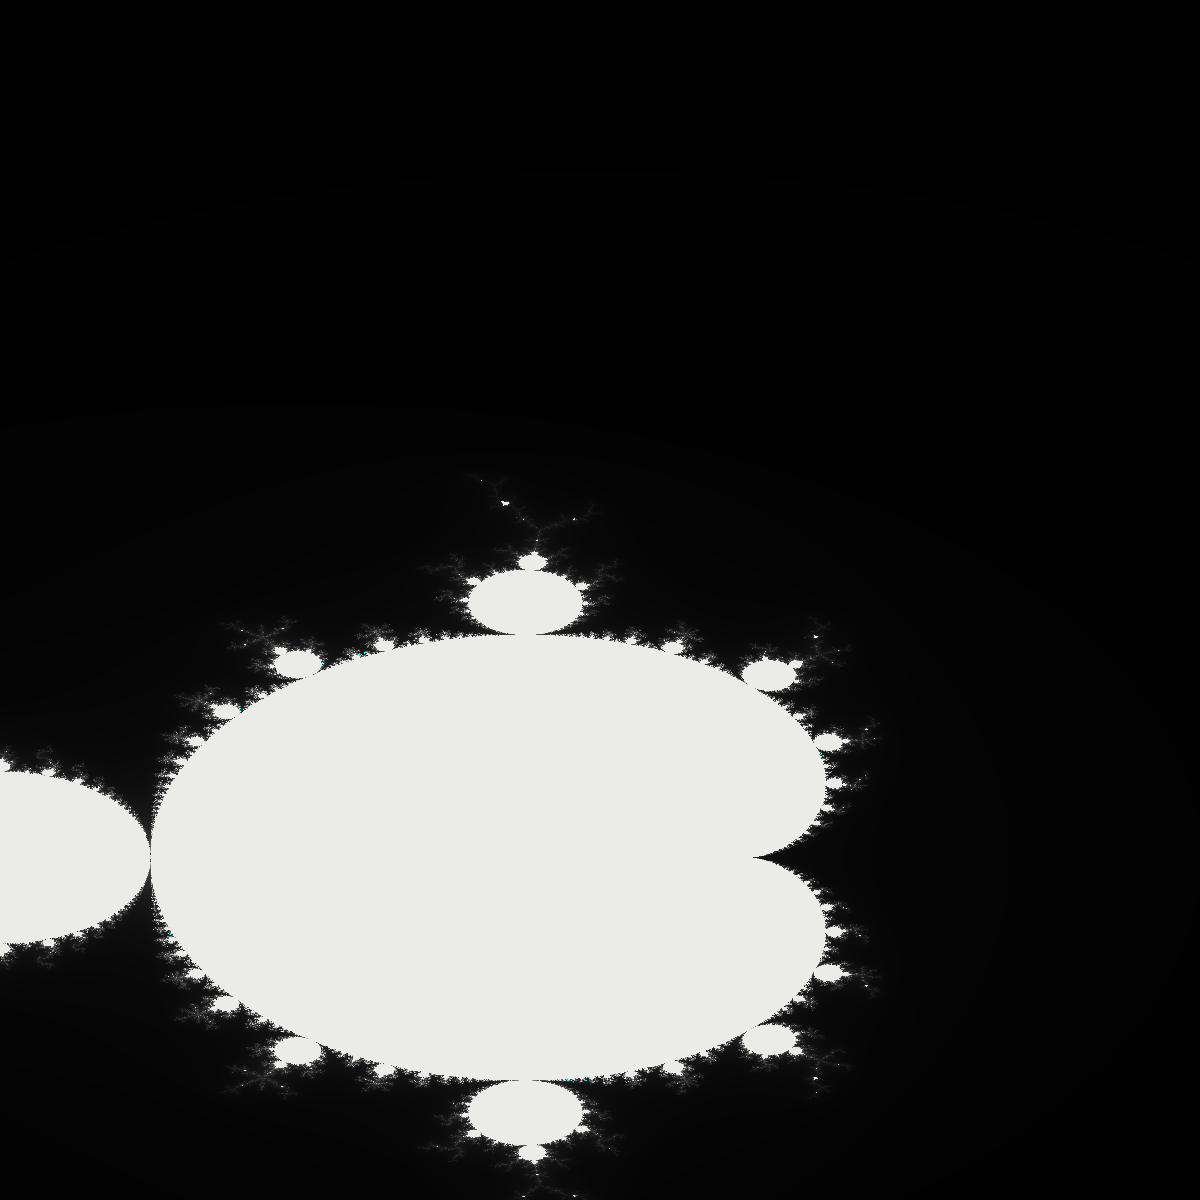
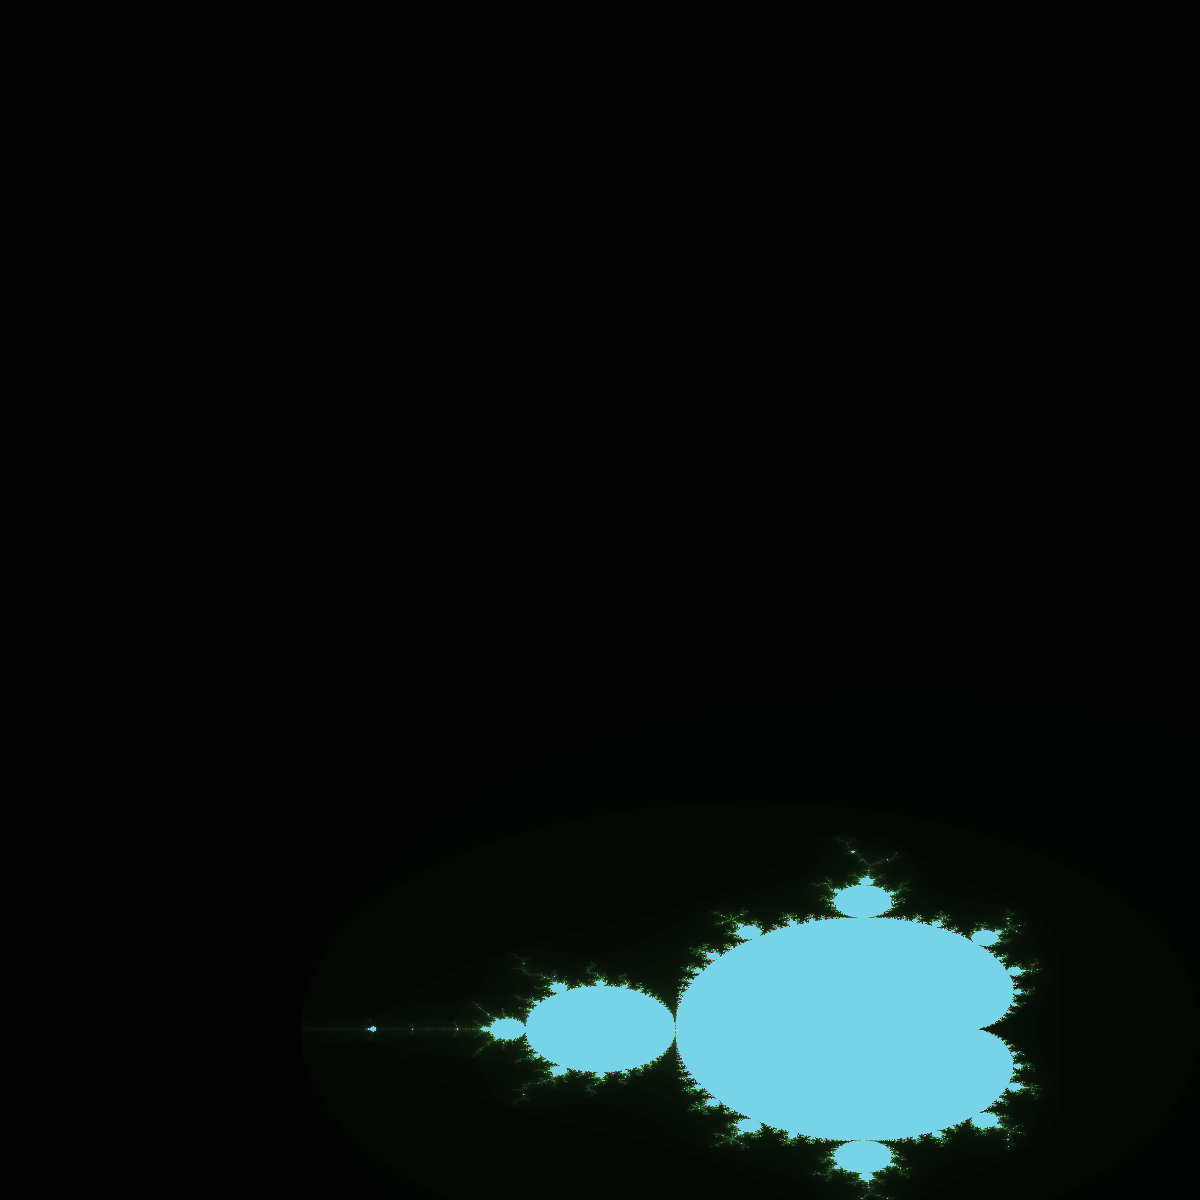
Finishing up at car dealership

Changed region(s): [[0.0, 0.4317, 0.8633, 1.0]]

diff --git a/SteeringBehaviors/src/mandelbrot/MandelBrot.java b/SteeringBehaviors/src/mandelbrot/MandelBrot.java
@@ -82,7 +82,8 @@ public class MandelBrot implements SingleEntity
 //                {
 //                    buff.setRGB(x, y, Color.black.getRGB());
 //                }
-               buff.setRGB(x, y,  ColorTool.getRGBColor(iterations + 1 ,iterations,iterations));
+               buff.setRGB(x, y,  ColorTool.getRGBColor(iterations % 222 ,iterations*2,iterations));
+                
 
             }
         }
